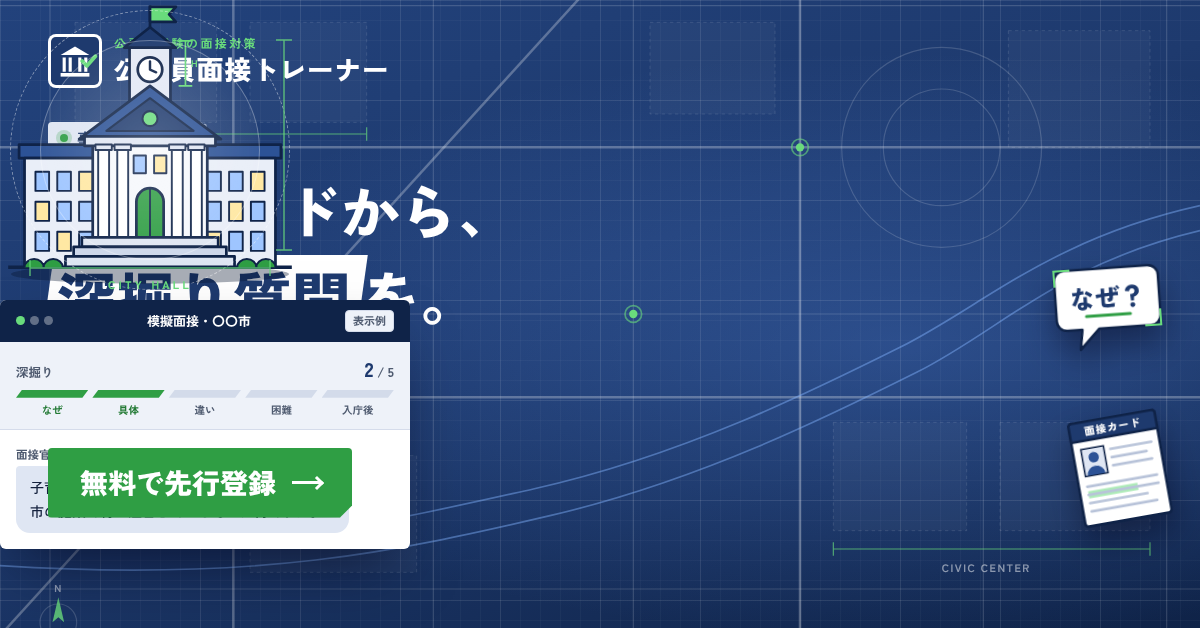
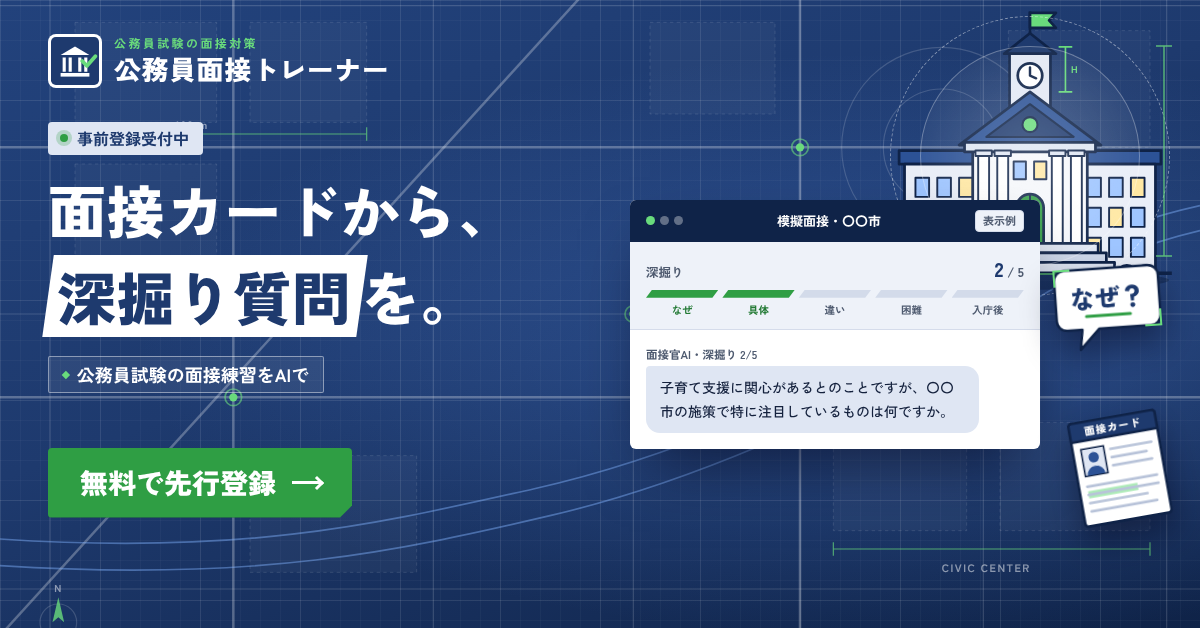
広告画像を更新（ペット・恋愛・志望理由書・相続ほか）
Claude-Session: https://claude.ai/code/session_01HfaK55x2ryAqdk16Bxvowi

diff --git a/ads/creatives/src/taikyo-story.html b/ads/creatives/src/taikyo-story.html
@@ -101,18 +101,18 @@ h1, p, ul { margin: 0; } ul { padding: 0; list-style: none; }
 
 .ad { width: 1080px; height: 1920px; }
 .sun { width: 1100px; height: 1100px; right: -360px; top: 600px; }
-.kr { width: 560px; height: 380px; left: -140px; top: 300px; }
-.slope { height: 560px; clip-path: polygon(0 34%, 100% 12%, 100% 100%, 0 100%); }
+.kr { width: 560px; height: 380px; left: -150px; top: 1000px; }
+.slope { height: 520px; clip-path: polygon(0 30%, 100% 8%, 100% 100%, 0 100%); }
 .topbar { position: absolute; left: 70px; right: 70px; top: 290px; display: flex; justify-content: space-between; align-items: center; }
 .topbar .logo-chip { font-size: 38px; }
 .topbar .badge { font-size: 30px; }
-.copy { position: absolute; left: 70px; top: 420px; font-size: 118px; }
-.sub { position: absolute; left: 72px; top: 762px; font-size: 34px; }
-.stage-pos { left: 130px; top: 900px; }
-.hero-stage { zoom: 1.38; }
-.tape-a { left: -40px; right: -40px; top: 1468px; transform: rotate(-2.2deg); font-size: 30px; }
-.ctawrap { position: absolute; left: 0; right: 0; top: 1556px; display: flex; justify-content: center; }
-.cta { font-size: 54px; }
+.copy { position: absolute; left: 70px; top: 410px; font-size: 114px; }
+.sub { position: absolute; left: 72px; top: 744px; font-size: 34px; }
+.stage-pos { left: 236px; top: 896px; }
+.hero-stage { zoom: 1.04; }
+.tip.mini b { font-size: 17px; }
+.ctawrap { position: absolute; left: 0; right: 0; top: 1538px; display: flex; justify-content: center; }
+.cta { font-size: 52px; }
 
 </style>
 </head>
@@ -286,16 +286,15 @@ h1, p, ul { margin: 0; } ul { padding: 0; list-style: none; }
         <g class="hs" style="--d:2.9s"><circle class="pulse" opacity="0" cx="288" cy="240" r="12" fill="#e67700" style="animation-delay:.6s"/><circle cx="288" cy="240" r="12" fill="#e67700" stroke="#fff" stroke-width="3"/><text x="288" y="245" text-anchor="middle" font-size="13" font-weight="900" fill="#fff">2</text></g>
         <g class="hs" style="--d:3.3s"><circle class="pulse" opacity="0" cx="132" cy="356" r="12" fill="#e67700" style="animation-delay:1.2s"/><circle cx="132" cy="356" r="12" fill="#e67700" stroke="#fff" stroke-width="3"/><text x="132" y="361" text-anchor="middle" font-size="13" font-weight="900" fill="#fff">3</text></g>
       </svg></div>
-    <div class="tip tip-wall"><b><i>1</i>壁紙</b><span>画びょう穴や汚れの位置を撮影</span></div>
-    <div class="tip tip-floor"><b><i>2</i>床</b><span>家具の跡や傷を日付入りで記録</span></div>
-    <div class="tip tip-water"><b><i>3</i>水回り</b><span>浴室・キッチンの状態を確認</span></div>
+    <div class="tip tip-wall mini"><b><i>1</i>壁紙</b><span>画びょう穴や汚れの位置を撮影</span></div>
+    <div class="tip tip-floor mini"><b><i>2</i>床</b><span>家具の跡や傷を日付入りで記録</span></div>
+    <div class="tip tip-water mini"><b><i>3</i>水回り</b><span>浴室・キッチンの状態を確認</span></div>
     <div class="boxes"><div class="box b1"><span>こわれもの</span></div><div class="box b2"><span>キッチン</span></div><div class="box b3"><span>天地無用 ↑</span></div></div>
     <svg class="obj f-key" viewBox="0 0 150 130" aria-hidden="true"><use href="#o-key"/></svg>
     <svg class="obj f-house" viewBox="0 0 150 136" aria-hidden="true"><use href="#o-house"/></svg>
     <svg class="obj f-cam" viewBox="0 0 150 120" aria-hidden="true"><use href="#o-cam"/></svg>
     <svg class="obj f-door" viewBox="0 0 120 156" aria-hidden="true"><use href="#o-door"/></svg>
     <svg class="obj f-broom" viewBox="0 0 90 164" aria-hidden="true"><use href="#o-broom"/></svg></div></div>
-  <div class="tape tape-a"><span><i><svg viewBox="0 0 24 24"><path d="M5 12.5l4.5 4.5L19 7.5" fill="none" stroke="#fff" stroke-width="3.6" stroke-linecap="round" stroke-linejoin="round"/></svg></i>入居時の写真を部屋ごとに整理<i><svg viewBox="0 0 24 24"><path d="M5 12.5l4.5 4.5L19 7.5" fill="none" stroke="#fff" stroke-width="3.6" stroke-linecap="round" stroke-linejoin="round"/></svg></i>傷や汚れを日付入りで撮影<i><svg viewBox="0 0 24 24"><path d="M5 12.5l4.5 4.5L19 7.5" fill="none" stroke="#fff" stroke-width="3.6" stroke-linecap="round" stroke-linejoin="round"/></svg></i>請求の内訳を書面でもらう<i><svg viewBox="0 0 24 24"><path d="M5 12.5l4.5 4.5L19 7.5" fill="none" stroke="#fff" stroke-width="3.6" stroke-linecap="round" stroke-linejoin="round"/></svg></i>管理会社に聞く質問を用意</span></div>
   <div class="ctawrap"><div class="cta">無料で先行登録<span class="arr">→</span></div></div>
 </div>
 </body>

diff --git a/ads/creatives/src/koumuin-story.html b/ads/creatives/src/koumuin-story.html
@@ -22,6 +22,7 @@ html, body { width: 1080px; height: 1920px; }
 }
 body { overflow: hidden; position: relative; color: #fff; font-family: var(--font); font-weight: 500; line-height: 1.85; -webkit-font-smoothing: antialiased;
   background: var(--navy); background-image: radial-gradient(ellipse at 75% 55%, rgba(80,130,220,.35), transparent 60%), linear-gradient(160deg, #22427c 0%, var(--navy) 45%, var(--navy-deep) 100%); }
+.abs { position: absolute; }
 .bpgrid { position: absolute; inset: 0; background-image: var(--bp-w); background-size: 100px 100px, 100px 100px, 20px 20px, 20px 20px; }
 .citymap { position: absolute; inset: 0; width: 100%; height: 100%; }
 .citymap .st { fill: none; stroke: rgba(255,255,255,.16); stroke-width: 1.4; }
@@ -66,7 +67,7 @@ h1 .g { color: var(--green-light); }
 .panel { position: absolute; width: 350px; height: 236px; background: #eaf0fa; clip-path: polygon(10% 0, 100% 0, 90% 100%, 0 100%); color: var(--green); overflow: hidden; }
 .panel::before { content: ""; position: absolute; inset: 0; background-image: var(--bp); background-size: 40px 40px, 40px 40px, 8px 8px, 8px 8px; }
 .panel svg { position: absolute; left: 50%; bottom: 0; width: 82%; height: auto; transform: translateX(-50%); display: block; }
-.panel-tag { position: absolute; left: 40px; top: 14px; font-size: 11px; font-weight: 900; letter-spacing: .2em; color: var(--navy); z-index: 2; line-height: 1.4; }
+.panel-tag { position: absolute; left: 40px; top: 14px; font-size: 11px; font-weight: 900; letter-spacing: .2em; color: var(--navy); z-index: 2; line-height: 1.4; background: #eaf0fa; padding: 1px 6px; }
 .badge-ai { position: absolute; background: var(--green); color: #fff; font-size: 12px; font-weight: 900; padding: 6px 12px; letter-spacing: .1em; clip-path: polygon(0 0, 100% 0, 92% 100%, 0 100%); line-height: 1.4; }
 
 .chat { position: absolute; width: 410px; background: #fff; color: var(--ink); border-radius: 6px; box-shadow: 0 30px 60px -20px rgba(0,0,20,.6); overflow: hidden; }
@@ -167,12 +168,12 @@ h1 { font-size: 112px; }
     <div class="chat-row ai"><span class="who">面接官AI・深掘り 2/5</span><p>子育て支援に関心があるとのことですが、〇〇市の施策で特に注目しているものは何ですか。</p></div>
   </div>
 </div></div>
-<div class="fxk" style="left:700px;top:1190px;width:180px;transform:rotate(-4deg);"><svg viewBox="0 0 112 92" aria-hidden="true" focusable="false">
+<div class="fxk" style="left:700px;top:1226px;width:176px;transform:rotate(-4deg);"><svg viewBox="0 0 112 92" aria-hidden="true" focusable="false">
 <path d="M14 6 H98 a10 10 0 0 1 10 10 V56 a10 10 0 0 1 -10 10 H46 L26 86 L29 66 H14 a10 10 0 0 1 -10 -10 V16 a10 10 0 0 1 10 -10 Z" fill="#fff" stroke="#0f2348" stroke-width="2.5" stroke-linejoin="round"/>
 <text x="56" y="45" text-anchor="middle" font-family="Zen Kaku Gothic New, sans-serif" font-weight="900" font-size="25" fill="#1e3a6e">なぜ？</text>
 <path d="M34 53 H78" stroke="#2f9e44" stroke-width="3" stroke-linecap="round"/>
 <path d="M4 22 V6 H20 M108 50 V66 H92" stroke="#69db7c" stroke-width="2" fill="none"/></svg></div>
-<div class="fxk" style="left:850px;top:1340px;width:150px;rotate:-10deg;"><svg viewBox="0 0 96 112" aria-hidden="true" focusable="false">
+<div class="fxk" style="left:860px;top:1360px;width:146px;rotate:-10deg;"><svg viewBox="0 0 96 112" aria-hidden="true" focusable="false">
 <rect x="6" y="6" width="84" height="100" rx="3" fill="#fff" stroke="#0f2348" stroke-width="2.5"/>
 <path d="M6 9 a3 3 0 0 1 3 -3 H87 a3 3 0 0 1 3 3 V24 H6 Z" fill="#1e3a6e" stroke="#0f2348" stroke-width="2.5" stroke-linejoin="round"/>
 <text x="48" y="19.5" text-anchor="middle" font-family="Zen Kaku Gothic New, sans-serif" font-weight="900" font-size="10" fill="#fff" letter-spacing=".1em">面接カード</text>

diff --git a/ads/creatives/src/koumuin-square.html b/ads/creatives/src/koumuin-square.html
@@ -22,6 +22,7 @@ html, body { width: 1080px; height: 1080px; }
 }
 body { overflow: hidden; position: relative; color: #fff; font-family: var(--font); font-weight: 500; line-height: 1.85; -webkit-font-smoothing: antialiased;
   background: var(--navy); background-image: radial-gradient(ellipse at 75% 55%, rgba(80,130,220,.35), transparent 60%), linear-gradient(160deg, #22427c 0%, var(--navy) 45%, var(--navy-deep) 100%); }
+.abs { position: absolute; }
 .bpgrid { position: absolute; inset: 0; background-image: var(--bp-w); background-size: 100px 100px, 100px 100px, 20px 20px, 20px 20px; }
 .citymap { position: absolute; inset: 0; width: 100%; height: 100%; }
 .citymap .st { fill: none; stroke: rgba(255,255,255,.16); stroke-width: 1.4; }
@@ -66,7 +67,7 @@ h1 .g { color: var(--green-light); }
 .panel { position: absolute; width: 350px; height: 236px; background: #eaf0fa; clip-path: polygon(10% 0, 100% 0, 90% 100%, 0 100%); color: var(--green); overflow: hidden; }
 .panel::before { content: ""; position: absolute; inset: 0; background-image: var(--bp); background-size: 40px 40px, 40px 40px, 8px 8px, 8px 8px; }
 .panel svg { position: absolute; left: 50%; bottom: 0; width: 82%; height: auto; transform: translateX(-50%); display: block; }
-.panel-tag { position: absolute; left: 40px; top: 14px; font-size: 11px; font-weight: 900; letter-spacing: .2em; color: var(--navy); z-index: 2; line-height: 1.4; }
+.panel-tag { position: absolute; left: 40px; top: 14px; font-size: 11px; font-weight: 900; letter-spacing: .2em; color: var(--navy); z-index: 2; line-height: 1.4; background: #eaf0fa; padding: 1px 6px; }
 .badge-ai { position: absolute; background: var(--green); color: #fff; font-size: 12px; font-weight: 900; padding: 6px 12px; letter-spacing: .1em; clip-path: polygon(0 0, 100% 0, 92% 100%, 0 100%); line-height: 1.4; }
 
 .chat { position: absolute; width: 410px; background: #fff; color: var(--ink); border-radius: 6px; box-shadow: 0 30px 60px -20px rgba(0,0,20,.6); overflow: hidden; }
@@ -170,7 +171,7 @@ h1 { font-size: 90px; }
 <text x="56" y="45" text-anchor="middle" font-family="Zen Kaku Gothic New, sans-serif" font-weight="900" font-size="25" fill="#1e3a6e">なぜ？</text>
 <path d="M34 53 H78" stroke="#2f9e44" stroke-width="3" stroke-linecap="round"/>
 <path d="M4 22 V6 H20 M108 50 V66 H92" stroke="#69db7c" stroke-width="2" fill="none"/></svg></div>
-<div class="fxk" style="left:880px;top:820px;width:128px;rotate:-10deg;"><svg viewBox="0 0 96 112" aria-hidden="true" focusable="false">
+<div class="fxk" style="left:908px;top:842px;width:124px;rotate:-10deg;"><svg viewBox="0 0 96 112" aria-hidden="true" focusable="false">
 <rect x="6" y="6" width="84" height="100" rx="3" fill="#fff" stroke="#0f2348" stroke-width="2.5"/>
 <path d="M6 9 a3 3 0 0 1 3 -3 H87 a3 3 0 0 1 3 3 V24 H6 Z" fill="#1e3a6e" stroke="#0f2348" stroke-width="2.5" stroke-linejoin="round"/>
 <text x="48" y="19.5" text-anchor="middle" font-family="Zen Kaku Gothic New, sans-serif" font-weight="900" font-size="10" fill="#fff" letter-spacing=".1em">面接カード</text>

diff --git a/ads/creatives/src/koumuin-landscape.html b/ads/creatives/src/koumuin-landscape.html
@@ -22,6 +22,7 @@ html, body { width: 1200px; height: 628px; }
 }
 body { overflow: hidden; position: relative; color: #fff; font-family: var(--font); font-weight: 500; line-height: 1.85; -webkit-font-smoothing: antialiased;
   background: var(--navy); background-image: radial-gradient(ellipse at 75% 55%, rgba(80,130,220,.35), transparent 60%), linear-gradient(160deg, #22427c 0%, var(--navy) 45%, var(--navy-deep) 100%); }
+.abs { position: absolute; }
 .bpgrid { position: absolute; inset: 0; background-image: var(--bp-w); background-size: 100px 100px, 100px 100px, 20px 20px, 20px 20px; }
 .citymap { position: absolute; inset: 0; width: 100%; height: 100%; }
 .citymap .st { fill: none; stroke: rgba(255,255,255,.16); stroke-width: 1.4; }
@@ -66,7 +67,7 @@ h1 .g { color: var(--green-light); }
 .panel { position: absolute; width: 350px; height: 236px; background: #eaf0fa; clip-path: polygon(10% 0, 100% 0, 90% 100%, 0 100%); color: var(--green); overflow: hidden; }
 .panel::before { content: ""; position: absolute; inset: 0; background-image: var(--bp); background-size: 40px 40px, 40px 40px, 8px 8px, 8px 8px; }
 .panel svg { position: absolute; left: 50%; bottom: 0; width: 82%; height: auto; transform: translateX(-50%); display: block; }
-.panel-tag { position: absolute; left: 40px; top: 14px; font-size: 11px; font-weight: 900; letter-spacing: .2em; color: var(--navy); z-index: 2; line-height: 1.4; }
+.panel-tag { position: absolute; left: 40px; top: 14px; font-size: 11px; font-weight: 900; letter-spacing: .2em; color: var(--navy); z-index: 2; line-height: 1.4; background: #eaf0fa; padding: 1px 6px; }
 .badge-ai { position: absolute; background: var(--green); color: #fff; font-size: 12px; font-weight: 900; padding: 6px 12px; letter-spacing: .1em; clip-path: polygon(0 0, 100% 0, 92% 100%, 0 100%); line-height: 1.4; }
 
 .chat { position: absolute; width: 410px; background: #fff; color: var(--ink); border-radius: 6px; box-shadow: 0 30px 60px -20px rgba(0,0,20,.6); overflow: hidden; }
@@ -156,7 +157,7 @@ h1 { font-size: 58px; }
 </g>
 <path d="M136 63 V30 M131 30 H141 M131 63 H141" stroke="#69db7c" stroke-width="1.2" fill="none"/>
 <text x="140" y="49" font-family="Zen Kaku Gothic New, sans-serif" font-weight="900" font-size="7" fill="#69db7c" letter-spacing=".08em">H</text>
-</svg><span class="lbl">CITY HALL</span>
+</svg>
 </div></div>
 <div class="abs" style="left:630px;top:200px;"><div class="chat" style="position:relative;zoom:1.0;">
   <div class="chat-top"><span class="dots"><i></i><i></i><i></i></span><span>模擬面接・〇〇市</span><span class="tag-ex">表示例</span></div>

diff --git a/ads/creatives/src/souzoku-story.html b/ads/creatives/src/souzoku-story.html
@@ -89,16 +89,16 @@ h1 .em path { fill: none; stroke: var(--gold-lt); stroke-width: .11em; stroke-li
 .ad { --fi: 34px; }
 .light { width: 1400px; height: 1400px; right: -520px; top: -420px; }
 .hills { height: 340px; }
-.sprig { left: 800px; top: 680px; width: 120px; transform: rotate(18deg); }
+.sprig { left: 70px; top: 1660px; width: 96px; transform: rotate(-14deg); }
 .logo { left: 84px; top: 286px; font-size: 44px; }
 .badge { right: 84px; top: 292px; font-size: 32px; padding: 18px 30px; }
 h1 { left: 82px; top: 410px; font-size: 104px; }
 .sub { left: 86px; top: 760px; font-size: 40px; }
-.tl-card { left: 84px; top: 900px; width: 912px; font-size: 29px; }
-.s-cal { left: 850px; top: 820px; width: 170px; }
-.s-flower { left: 40px; top: 790px; width: 0; }
-.s-memo { left: 60px; top: 1330px; width: 150px; }
-.cta { left: 50%; top: 1510px; transform: translateX(-50%); font-size: 46px; padding: 34px 70px; }
+.tl-card { left: 84px; top: 872px; width: 912px; font-size: 27px; }
+.s-cal { left: 862px; top: 716px; width: 146px; }
+.s-flower { left: 884px; top: 1476px; width: 86px; transform: rotate(5deg); }
+.s-memo { left: 76px; top: 1494px; width: 140px; }
+.cta { left: 50%; top: 1514px; transform: translateX(-50%); font-size: 46px; padding: 34px 70px; }
 </style>
 </head>
 <body>
@@ -202,7 +202,7 @@ h1 { left: 82px; top: 410px; font-size: 104px; }
     var tl = document.getElementById("tl"), svg = document.getElementById("tl-path");
     var b = tl.getBoundingClientRect();
     var pts = [document.querySelector(".tl-today .sun")].concat($$(".tl .node")).map(function (n) { var r = n.getBoundingClientRect(); return [r.left - b.left + r.width / 2, r.top - b.top + r.height / 2]; });
-    var k = parseFloat(getComputedStyle(tl).fontSize);
+    var k = parseFloat(getComputedStyle(tl).fontSize) * .6;
     var d = "M" + pts[0][0] + " " + pts[0][1];
     for (var i = 1; i < pts.length; i++) {
       var a = pts[i - 1], c = pts[i], my = (a[1] + c[1]) / 2;

diff --git a/ads/creatives/src/taikyo-square.html b/ads/creatives/src/taikyo-square.html
@@ -101,16 +101,18 @@ h1, p, ul { margin: 0; } ul { padding: 0; list-style: none; }
 
 .ad { width: 1080px; height: 1080px; }
 .sun { width: 900px; height: 900px; right: -260px; top: -300px; }
-.kr { width: 520px; height: 340px; left: -120px; bottom: 120px; }
+.kr { width: 520px; height: 360px; left: -110px; top: 580px; }
 .slope { height: 150px; }
 .topbar { position: absolute; left: 60px; right: 60px; top: 54px; display: flex; justify-content: space-between; align-items: center; }
 .topbar .logo-chip { font-size: 34px; }
 .topbar .badge { font-size: 28px; }
-.copy { position: absolute; left: 60px; top: 176px; font-size: 104px; }
-.sub { position: absolute; left: 62px; top: 478px; font-size: 30px; }
-.stage-pos { right: 40px; top: 560px; }
-.hero-stage { zoom: .8; }
-.ctawrap { position: absolute; left: 60px; top: 640px; }
+.copy { position: absolute; left: 60px; top: 162px; font-size: 102px; }
+.sub { position: absolute; left: 62px; top: 456px; font-size: 30px; }
+.stage-pos { right: 40px; top: 530px; }
+.hero-stage { zoom: .88; }
+.hero-stage .f-key { display: none; }
+.ctawrap { position: absolute; left: 56px; top: 660px; }
+.big-key { position: absolute; left: 60px; top: 840px; width: 250px; transform: rotate(-8deg); }
 .cta { font-size: 42px; }
 .tape-b { left: -40px; right: -40px; bottom: 30px; transform: rotate(-1.6deg); font-size: 24px; }
 
@@ -295,6 +297,7 @@ h1, p, ul { margin: 0; } ul { padding: 0; list-style: none; }
     <svg class="obj f-cam" viewBox="0 0 150 120" aria-hidden="true"><use href="#o-cam"/></svg>
     <svg class="obj f-door" viewBox="0 0 120 156" aria-hidden="true"><use href="#o-door"/></svg>
     <svg class="obj f-broom" viewBox="0 0 90 164" aria-hidden="true"><use href="#o-broom"/></svg></div></div>
+  <svg class="obj big-key" viewBox="0 0 150 130" aria-hidden="true"><use href="#o-key"/></svg>
   <div class="ctawrap"><div class="cta">無料で先行登録<span class="arr">→</span></div></div>
 </div>
 </body>

diff --git a/ads/creatives/src/souzoku-square.html b/ads/creatives/src/souzoku-square.html
@@ -94,11 +94,11 @@ h1 .em path { fill: none; stroke: var(--gold-lt); stroke-width: .11em; stroke-li
 .badge { right: 72px; top: 72px; font-size: 26px; padding: 15px 26px; }
 h1 { left: 70px; top: 166px; font-size: 86px; }
 .sub { left: 72px; top: 456px; font-size: 32px; }
-.tl-card { left: 452px; top: 532px; width: 572px; font-size: 21px; }
+.tl-card { left: 462px; top: 532px; width: 564px; font-size: 21px; }
 .s-cal { left: 930px; top: 452px; width: 120px; }
 .s-flower { left: 96px; top: 560px; width: 100px; transform: rotate(-4deg); }
 .s-memo { left: 236px; top: 650px; width: 150px; }
-.cta { left: 72px; top: 902px; font-size: 34px; padding: 28px 44px; }
+.cta { left: 72px; top: 904px; font-size: 32px; padding: 27px 38px; }
 </style>
 </head>
 <body>
@@ -202,7 +202,7 @@ h1 { left: 70px; top: 166px; font-size: 86px; }
     var tl = document.getElementById("tl"), svg = document.getElementById("tl-path");
     var b = tl.getBoundingClientRect();
     var pts = [document.querySelector(".tl-today .sun")].concat($$(".tl .node")).map(function (n) { var r = n.getBoundingClientRect(); return [r.left - b.left + r.width / 2, r.top - b.top + r.height / 2]; });
-    var k = parseFloat(getComputedStyle(tl).fontSize);
+    var k = parseFloat(getComputedStyle(tl).fontSize) * .6;
     var d = "M" + pts[0][0] + " " + pts[0][1];
     for (var i = 1; i < pts.length; i++) {
       var a = pts[i - 1], c = pts[i], my = (a[1] + c[1]) / 2;

diff --git a/ads/creatives/src/souzoku-landscape.html b/ads/creatives/src/souzoku-landscape.html
@@ -95,7 +95,7 @@ h1 .em path { fill: none; stroke: var(--gold-lt); stroke-width: .11em; stroke-li
 h1 { left: 48px; top: 124px; font-size: 58px; }
 .sub { left: 50px; top: 316px; font-size: 23px; }
 .tl-card { left: 640px; top: 66px; width: 516px; font-size: 18px; }
-.s-cal { left: 1090px; top: 26px; width: 92px; }
+.s-cal { left: 1104px; top: 12px; width: 82px; }
 .s-flower { left: 572px; top: 60px; width: 64px; transform: rotate(-4deg); }
 .s-memo { left: 584px; top: 410px; width: 100px; }
 .cta { left: 48px; top: 416px; font-size: 27px; padding: 24px 38px; }
@@ -202,7 +202,7 @@ h1 { left: 48px; top: 124px; font-size: 58px; }
     var tl = document.getElementById("tl"), svg = document.getElementById("tl-path");
     var b = tl.getBoundingClientRect();
     var pts = [document.querySelector(".tl-today .sun")].concat($$(".tl .node")).map(function (n) { var r = n.getBoundingClientRect(); return [r.left - b.left + r.width / 2, r.top - b.top + r.height / 2]; });
-    var k = parseFloat(getComputedStyle(tl).fontSize);
+    var k = parseFloat(getComputedStyle(tl).fontSize) * .6;
     var d = "M" + pts[0][0] + " " + pts[0][1];
     for (var i = 1; i < pts.length; i++) {
       var a = pts[i - 1], c = pts[i], my = (a[1] + c[1]) / 2;

diff --git a/ads/creatives/src/eisei-landscape.html b/ads/creatives/src/eisei-landscape.html
@@ -117,7 +117,7 @@ h1 { font-size: 60px; }
   <p class="quiz-q">衛生管理者を選任しなければならない事業場の規模として、正しいものはどれか。</p>
   <ol class="quiz-opts"><li>常時10人以上</li><li>常時30人以上</li><li>常時50人以上</li><li>常時100人以上</li></ol>
 </div></div></div>
-<div class="abs" style="left:640px;top:330px;transform:rotate(4deg);"><div class="ringcard" style="position:relative;zoom:0.92;">
+<div class="abs" style="left:598px;top:338px;transform:rotate(4deg);"><div class="ringcard" style="position:relative;zoom:0.92;">
   <div class="ring"><svg viewBox="0 0 120 120" width="120" height="120" aria-hidden="true"><circle class="trk" cx="60" cy="60" r="48" fill="none" stroke-width="13"/><circle class="bar" cx="60" cy="60" r="48" fill="none" stroke-width="13" stroke-linecap="round" pathLength="100"/></svg>
   <div class="ring-num"><span>12/20</span><small>問</small></div></div>
   <p>今日の出題</p><span class="tag-ex">表示例</span>

diff --git a/ads/creatives/src/eisei-square.html b/ads/creatives/src/eisei-square.html
@@ -96,7 +96,7 @@ h1 { font-size: 100px; }
 <div class="eyebrow" style="left:68px;top:604px;font-size:27px;padding:10px 22px;">第一種・第二種衛生管理者の試験対策</div>
 
 <div class="blob" style="left:520px;top:590px;width:700px;height:600px;"></div>
-<div class="fx" style="left:906px;top:122px;width:124px;transform:rotate(8deg);"><svg viewBox="0 0 120 120" aria-hidden="true" focusable="false"><g stroke="#1d232b" stroke-width="3" stroke-linecap="round" stroke-linejoin="round">
+<div class="fx" style="left:918px;top:138px;width:120px;transform:rotate(8deg);"><svg viewBox="0 0 120 120" aria-hidden="true" focusable="false"><g stroke="#1d232b" stroke-width="3" stroke-linecap="round" stroke-linejoin="round">
 <path d="M36 96 L26 112 M84 96 L94 112" stroke-width="6"/>
 <path d="M14 54 L5 49 M13 67 H3 M106 54 L115 49 M107 67 H117" stroke="#d9480f"/>
 <path d="M60 24 V13" stroke-width="4"/><path d="M50 11 H70" stroke-width="5"/>
